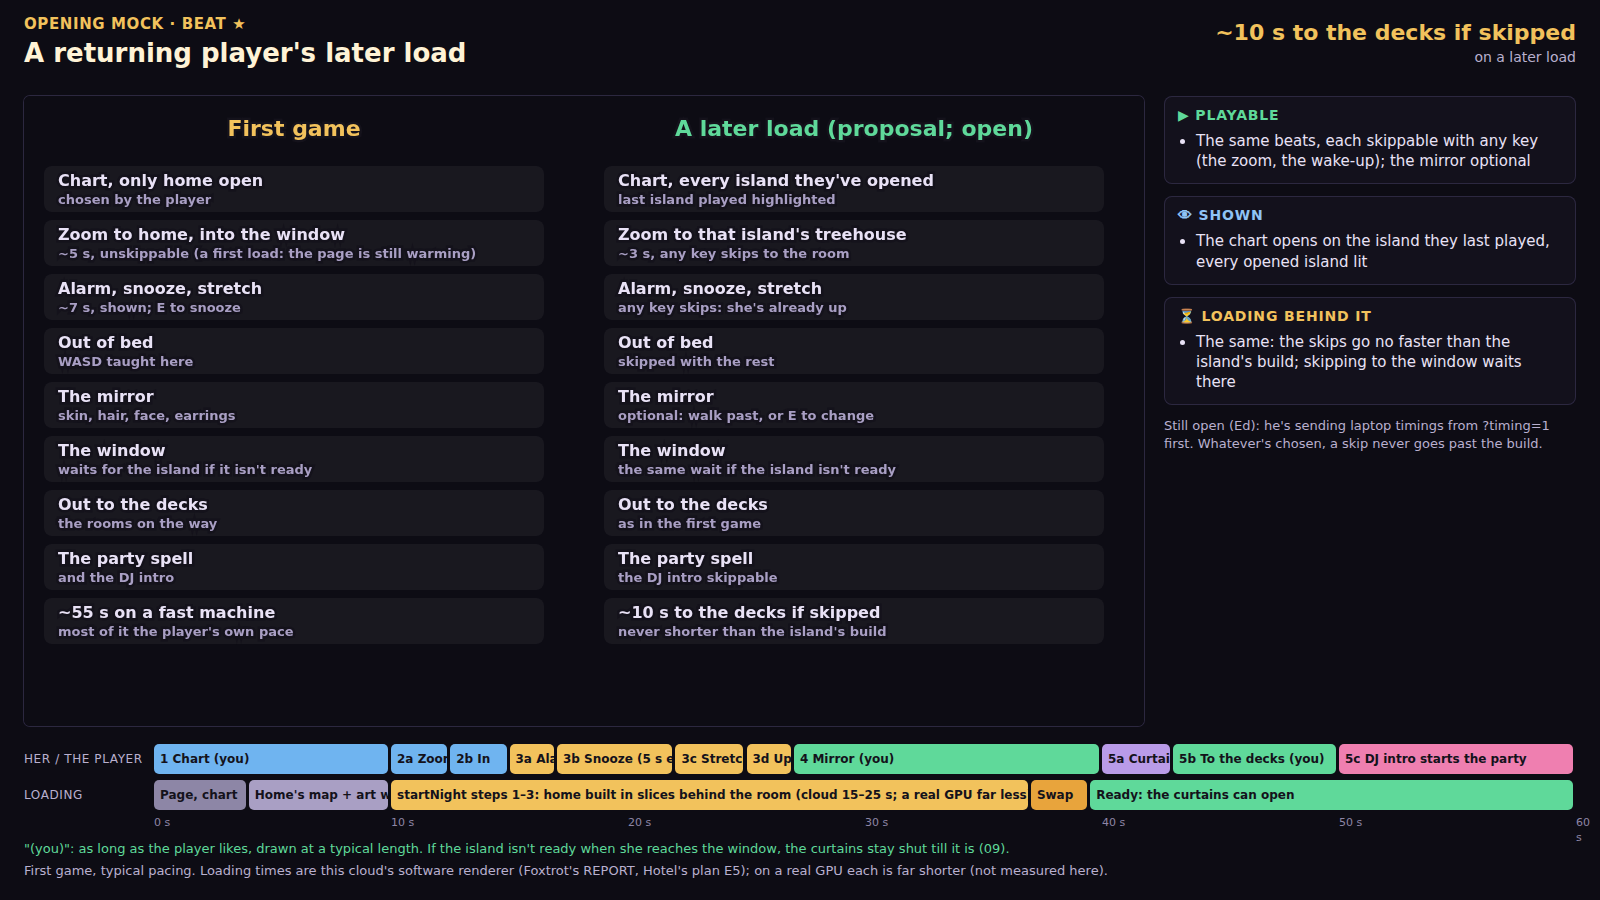
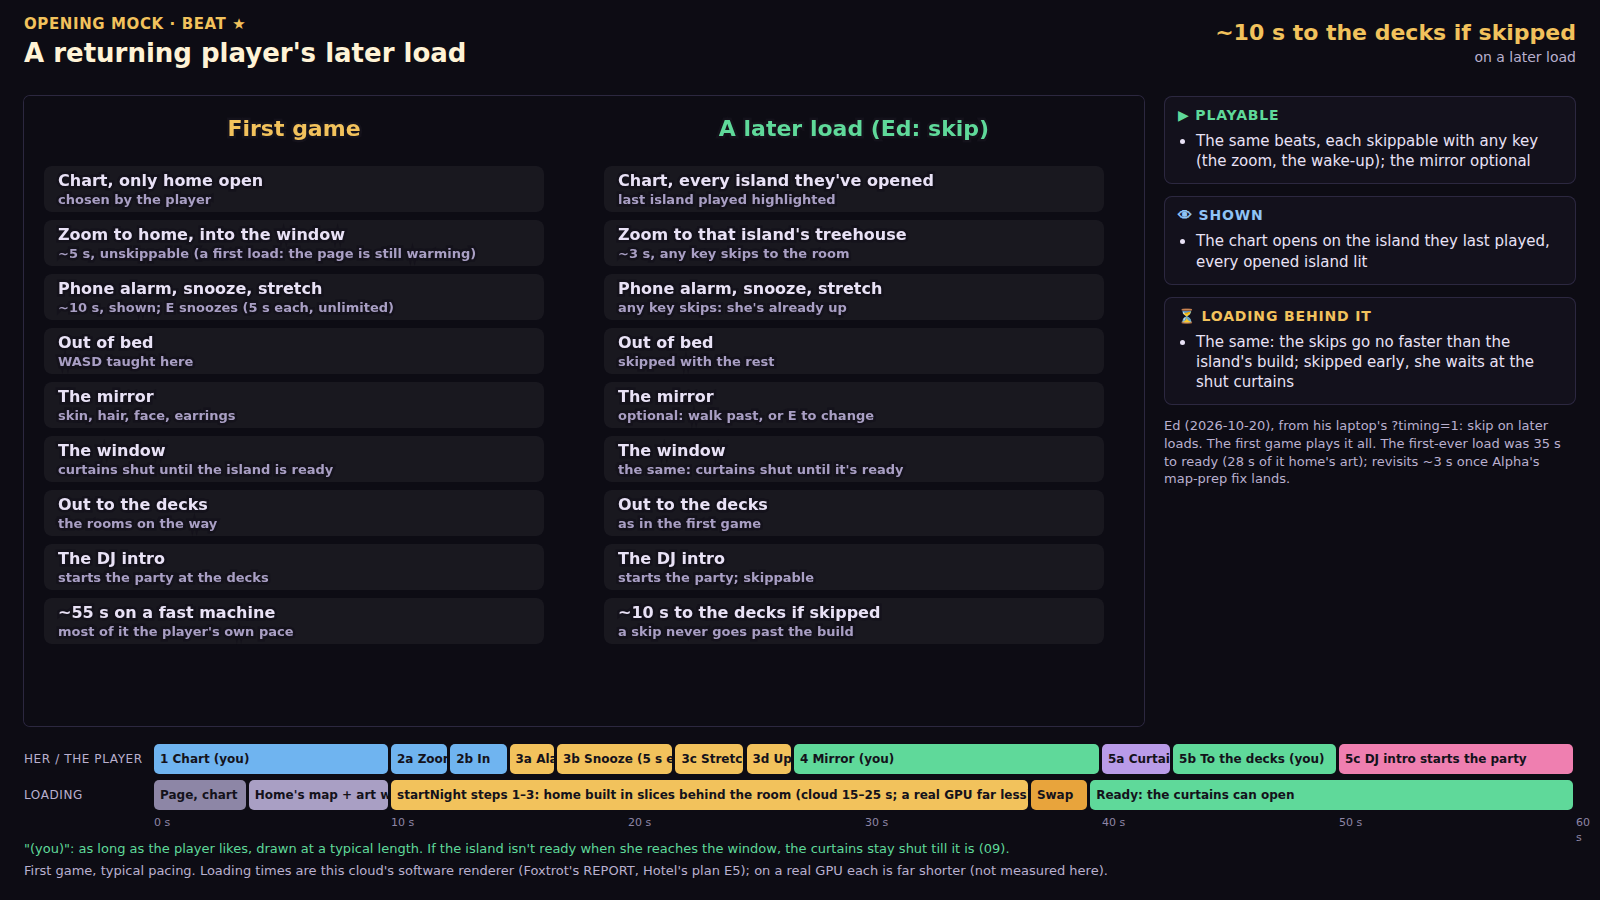
Opening mock: Ed's skip decision (later loads shorter and skippable, never past the build; the first game plays it all), his laptop numbers, the arrival flight kept for now; frame ★ redrawn
Claude-Session: https://claude.ai/code/session_01TZiiLtuTHaQyxfLgD6H57G

diff --git a/previews/ed/opening-mock/src/main.js b/previews/ed/opening-mock/src/main.js
@@ -223,8 +223,8 @@ const SCENES = {
   later(q) {
     q.fillStyle = "#0d0c14"; q.fillRect(0, 0, 1120, 630);
     const col = (x, title, rows, c) => { label(q, x + 250, 34, title, c, 22); rows.forEach(([n, t], i) => { const y = 70 + i * 54; q.fillStyle = "rgba(255,255,255,.05)"; q.beginPath(); q.roundRect(x, y, 500, 46, 8); q.fill(); label(q, x + 14, y + 16, n, "#e9e2f6", 16, "left"); label(q, x + 14, y + 35, t, "#a99fc4", 13, "left"); }); };
-    col(20, "First game", [["Chart, only home open", "chosen by the player"], ["Zoom to home, into the window", "~5 s, unskippable (a first load: the page is still warming)"], ["Alarm, snooze, stretch", "~7 s, shown; E to snooze"], ["Out of bed", "WASD taught here"], ["The mirror", "skin, hair, face, earrings"], ["The window", "waits for the island if it isn't ready"], ["Out to the decks", "the rooms on the way"], ["The party spell", "and the DJ intro"], ["~55 s on a fast machine", "most of it the player's own pace"]], "#f2c25c");
-    col(580, "A later load (proposal; open)", [["Chart, every island they've opened", "last island played highlighted"], ["Zoom to that island's treehouse", "~3 s, any key skips to the room"], ["Alarm, snooze, stretch", "any key skips: she's already up"], ["Out of bed", "skipped with the rest"], ["The mirror", "optional: walk past, or E to change"], ["The window", "the same wait if the island isn't ready"], ["Out to the decks", "as in the first game"], ["The party spell", "the DJ intro skippable"], ["~10 s to the decks if skipped", "never shorter than the island's build"]], "#5fd99a");
+    col(20, "First game", [["Chart, only home open", "chosen by the player"], ["Zoom to home, into the window", "~5 s, unskippable (a first load: the page is still warming)"], ["Phone alarm, snooze, stretch", "~10 s, shown; E snoozes (5 s each, unlimited)"], ["Out of bed", "WASD taught here"], ["The mirror", "skin, hair, face, earrings"], ["The window", "curtains shut until the island is ready"], ["Out to the decks", "the rooms on the way"], ["The DJ intro", "starts the party at the decks"], ["~55 s on a fast machine", "most of it the player's own pace"]], "#f2c25c");
+    col(580, "A later load (Ed: skip)", [["Chart, every island they've opened", "last island played highlighted"], ["Zoom to that island's treehouse", "~3 s, any key skips to the room"], ["Phone alarm, snooze, stretch", "any key skips: she's already up"], ["Out of bed", "skipped with the rest"], ["The mirror", "optional: walk past, or E to change"], ["The window", "the same: curtains shut until it's ready"], ["Out to the decks", "as in the first game"], ["The DJ intro", "starts the party; skippable"], ["~10 s to the decks if skipped", "a skip never goes past the build"]], "#5fd99a");
   },
 };
 
@@ -287,8 +287,8 @@ const FRAMES = {
   "12-later": { beat: "", n: "★", title: "A returning player's later load", time: "~10 s to the decks if skipped", scene: "later",
     play: ["The same beats, each skippable with any key (the zoom, the wake-up); the mirror optional"],
     shown: ["The chart opens on the island they last played, every opened island lit"],
-    load: ["The same: the skips go no faster than the island's build; skipping to the window waits there"],
-    note: "Still open (Ed): he's sending laptop timings from ?timing=1 first. Whatever's chosen, a skip never goes past the build." },
+    load: ["The same: the skips go no faster than the island's build; skipped early, she waits at the shut curtains"],
+    note: "Ed (2026-10-20), from his laptop's ?timing=1: skip on later loads. The first game plays it all. The first-ever load was 35 s to ready (28 s of it home's art); revisits ~3 s once Alpha's map-prep fix lands." },
 };
 
 const id = decodeURIComponent(location.hash.slice(1)) || "01-chart", F = FRAMES[id];

diff --git a/previews/ed/opening-mock/NOTES.md b/previews/ed/opening-mock/NOTES.md
@@ -30,7 +30,7 @@ Ed: the first load starts on the sea chart, with only home unlocked in a first g
 | 5a | `09-window.png` | The window: curtains shut until the island is ready | until ready, then E | E opens the curtains once it's ready ("not yet" before) | the curtains wait on the build |
 | 5b | `10-walk.png` | Out through the rooms to the decks | the player | walk; every station works; all rooms alike | nothing |
 | 5c | `11-party.png` | At her decks: the DJ intro starts the party | 6.5 s + the boot | E at the decks: the scratch routine (no party spell) | nothing |
-| ★ | `12-later.png` | A returning player's later load (open) | ~10 s to the decks if skipped | proposal: any key skips the zoom and the wake-up; the mirror optional | the same build: the skips go no faster than it |
+| ★ | `12-later.png` | A returning player's later load | ~10 s to the decks if skipped | any key skips the zoom and the wake-up; the mirror optional | the same build: the skips go no faster than it |
 
 **Timings.** The beats are Foxtrot's:
 - the zoom to the window 2–3 s;
@@ -57,9 +57,9 @@ In this opening:
 - the mirror is the creator's first, smaller step;
 - the DJ intro at the decks starts the party, in place of the party spell (Ed).
 
-## A returning player (frame ★): open
+## A returning player (frame ★): decided
 
-Ed is sending laptop timings first. **The proposal: the same beats, skippable and shorter.**
+**Ed (2026-10-20): skip on later loads.** The first game plays the whole wake-up; later loads are shorter, and any key skips, but a skip never goes past the build.
 1. The chart opens on the island they last played, with every island they've opened lit.
 2. Choosing one zooms to its treehouse window (~3 s). Any key skips the zoom and the wake-up: she's already up.
 3. The mirror is optional (walk past it, or E to change).
@@ -80,10 +80,14 @@ Every frame is redrawn to match (the changes: 1, 3a, 3b, 5a, 5b, 5c, ★; the cu
    - What's new and Options are buttons in the chart's corner, beside a Zoo button (1).
    - Controls are taught in the bedroom (WASD out of bed, E at things) and kept in the pause menu.
    - The zoo is reached through the bestiary's book and the chart's button.
-4. **Skipping for returning players: still open.**
-   - Ed asked whether the wake-up really is the loading time. It depends on the machine.
-   - He's sending real laptop numbers from `?timing=1` first.
-   - Whatever's chosen, a skip never goes past the build. Frame ★ shows the proposal, marked open.
+4. **Skipping for returning players: skip on later loads** (decided after Ed's laptop numbers).
+   - **The first game** plays the whole wake-up.
+   - **Later loads** are shorter, and any key skips, but a skip never goes past the build: skipped early, she waits at the shut curtains. Frame ★ shows it.
+   - **His numbers** (Intel UHD, Chrome on Windows, `?timing=1`):
+     - the first-ever load took 35 s to ready, 28 s of it home's art drawn cold;
+     - revisits should be ready in about 3 s once Alpha fixes a 10 s map-prep stall.
+   - So on a first game the wake-up really is the loading time; on later loads it mostly isn't, hence the skip.
+   - **The arrival flight** (13.7 s on his laptop) stays as it is for now; the wake-up replaces it later.
 5. **The creator's choices on a first game:** the mirror only (skin, hair, hair style, face, earrings). The rest stays the classic look until the dressing room and the garage, in play.
 6. **The way out:** all rooms alike; the path isn't lit (5b).
 7. **Which mirror:** a dressing table in the bedroom (4).
@@ -96,7 +100,7 @@ Every frame is redrawn to match (the changes: 1, 3a, 3b, 5a, 5b, 5c, ★; the cu
    - Once it's ready, E opens them onto the island (5a). There's no mist.
 10. **After the bed:** the next night starts with the shorter wake-up.
 
-**Not built yet:** the build depends on Hotel's sail-without-reload PRs 5 and 6, which give a Page with no night.
+**Not built yet:** the build waits for Hotel's sail-without-reload PR 6 (a Page with no night).
 
 ## Files
 
